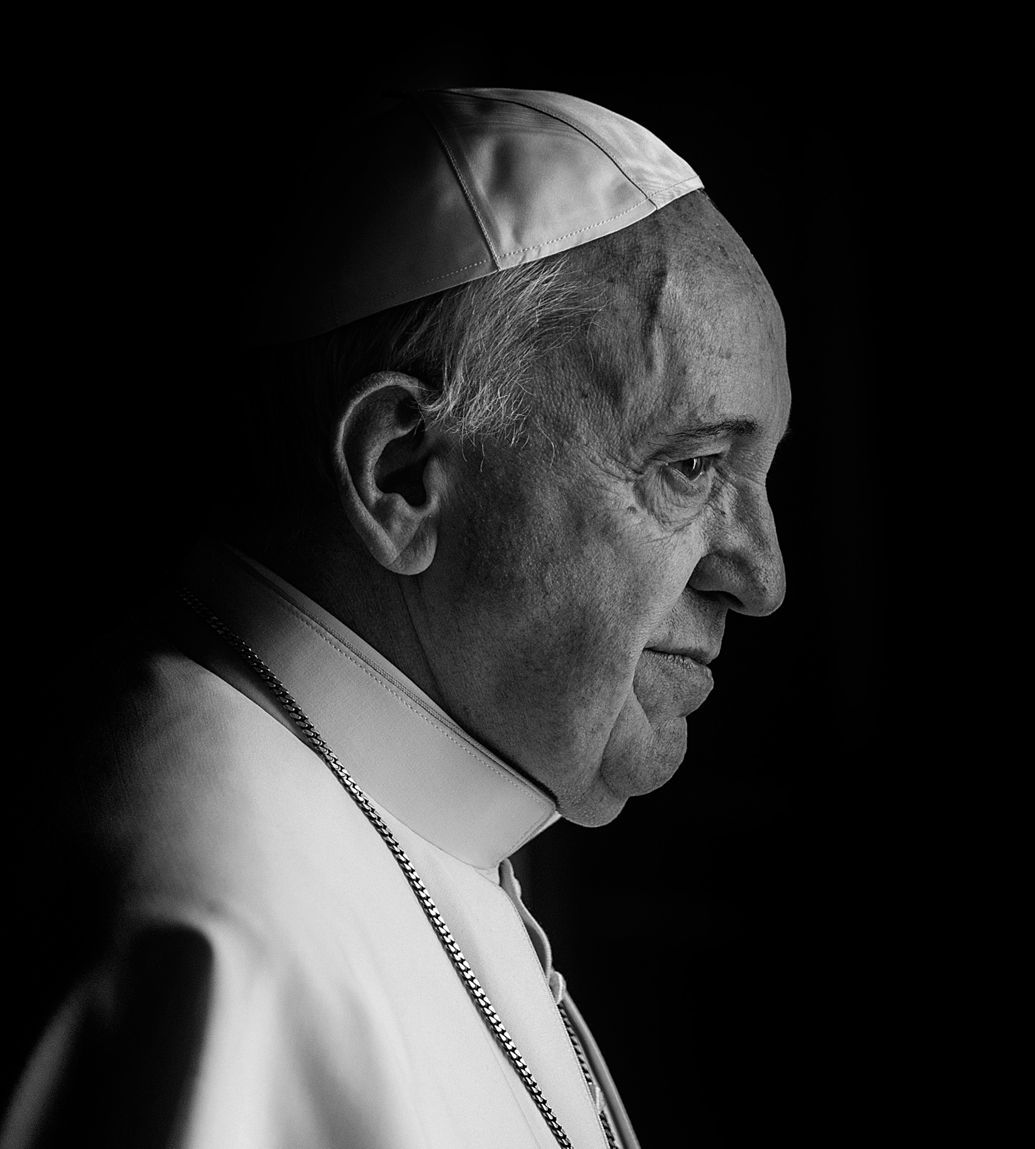
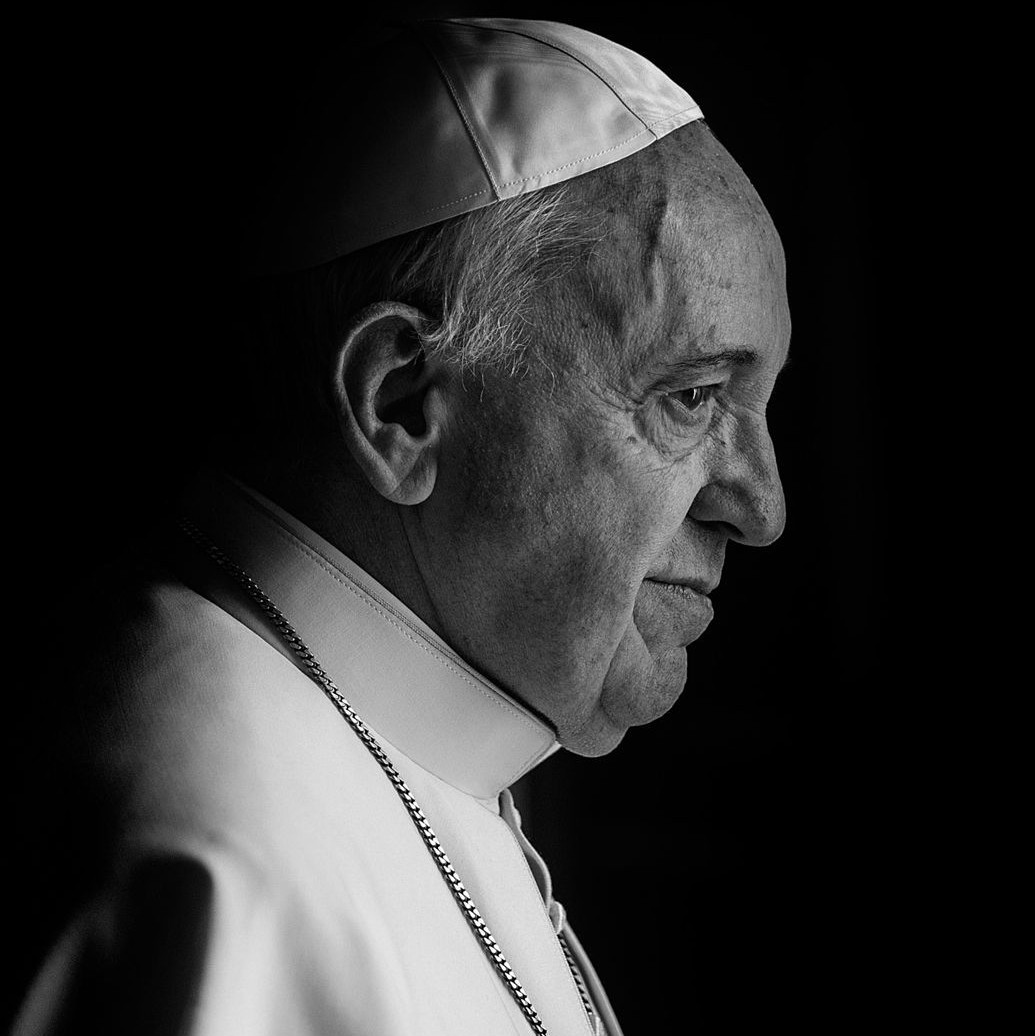
glr apt

diff --git a/app/fn/page.tsx b/app/fn/page.tsx
@@ -38,6 +38,9 @@ const galleryImages: string[] = [
   "/gallery/35.jpg",
   "/gallery/36.jpg",
   "/gallery/37.jpg",
+  "/gallery/46.jpg",
+  "/gallery/41.jpg",
+  "/gallery/38.jpg",
 ];
 
 // Cycled aspect ratios so images vary in size instead of all sharing the same box
